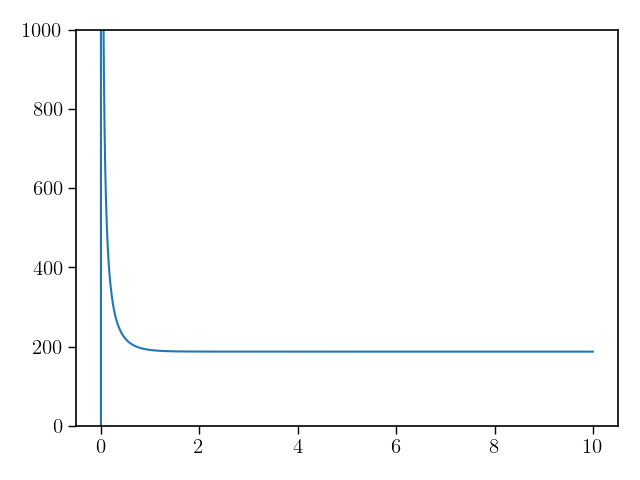
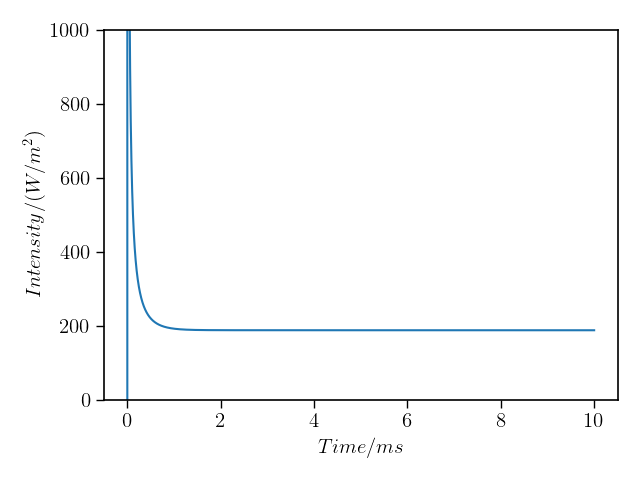
added comment

Changed region(s): [[0.0312, 0.0312, 0.9688, 0.9688]]

diff --git a/hw4/p1.py b/hw4/p1.py
@@ -87,8 +87,9 @@ def ode_solver_v1(expression_g, expression_I,
         g += step_size_t * k1
         for index in range(g.shape[0]):
             if g[index] < 0:
-                g[index] = 0
-
+                # gain has to be non-negative due to physical constraint
+                g[index] = 0 
+                
         # here we propagate a beam of light through the amplifier
         # so we solve the intensity as a function of position z
         for j in range(steps_z):
@@ -165,6 +166,8 @@ fig, ax = plt.subplots()
 xs = 10** (-3) * np.arange(steps_t + 1)
 ax.plot(xs, I2[:,-1])
 ax.set_ylim(0, 1000)
+ax.set_xlabel(r'$Time/ms$')
+ax.set_ylabel(r'$Intensity/(W/m^2)$')
 fig.savefig("output_intensity.png")
 
 I2 = np.transpose(I2)
